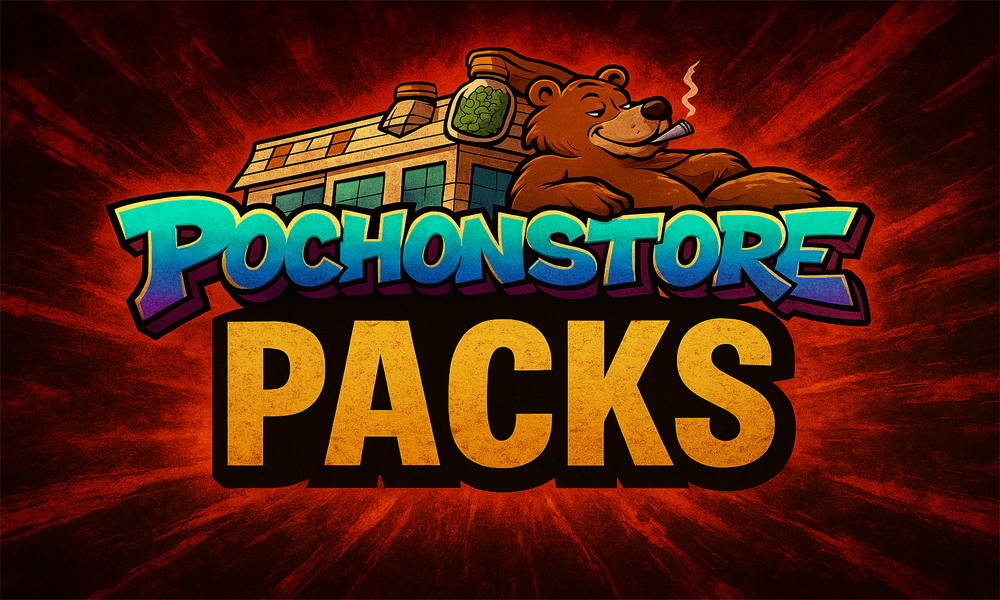
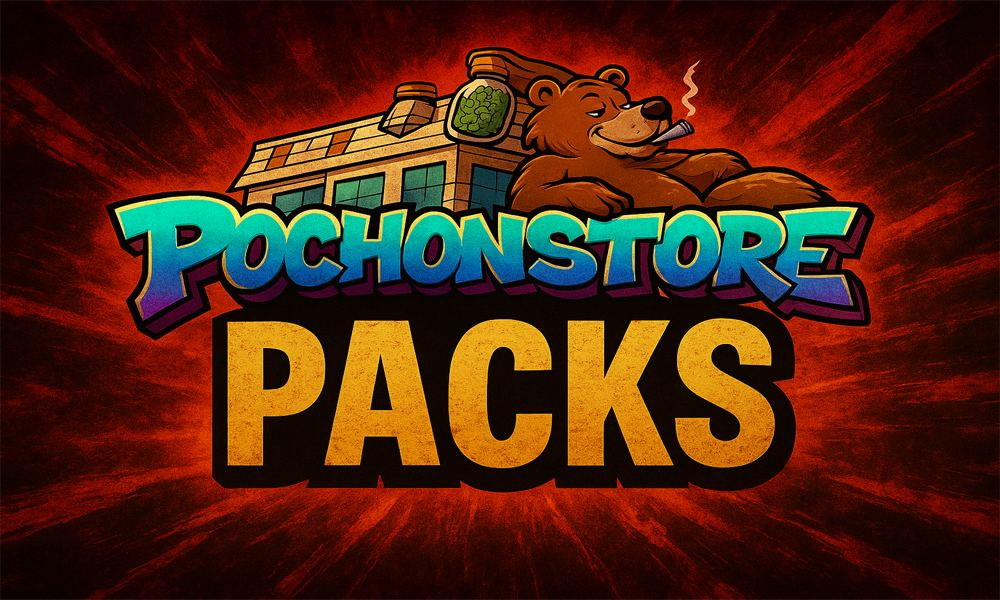
Compresse les medias, corrige la recherche, refond l'envoi de devis
Images (perf) :
- PNG photographiques convertis en JPEG optimise (bgpss, cartescata,
  pochons11, pochons22) : ~6 Mo -> ~1,7 Mo sur l'ensemble des images.
- Recompression des jpg existants (etiquettes1, pack-menu, scelleuse).
- Renommage fusees1.jpg (sans accent) pour la portabilite des URLs.
- banner.png reoptimise sans perte (transparence conservee).
- cartes.mp4 (5,8 Mo, pas d'outil de reencodage video disponible) :
  passe en preload="none" + chargement/lecture uniquement a l'ouverture
  de la fiche "Cartes fidelite", pause a la fermeture.

Recherche catalogue :
- Bug corrige : le filtre "Fusees" (data-tag="fusees" sans accent) ne
  matchait jamais le produit (data-tags="fusées" avec accent) et
  masquait le seul produit qu'il devait montrer.
- Recherche par mots-cles : tous les termes tapes doivent se retrouver
  (titre, sous-titre ou tags), plus permissif qu'une correspondance de
  sous-chaine complete.
- Message "Aucun resultat" quand la recherche/le filtre ne retourne rien.

Devis / contact :
- QUOTE_USERNAME bascule de pssv2 vers offpss (devis, contact, service
  dev mini-app).
- sendQuote() et openDevService() ouvraient un selecteur de contact
  Telegram generique (t.me/share/url) obligeant l'utilisateur a
  rechercher lui-meme le bon compte. Remplace par un lien direct
  t.me/offpss?text=... qui ouvre directement la conversation avec le
  message pre-rempli.
- Message de devis restructure en sections claires (identite client,
[…]

diff --git a/index.html b/index.html
@@ -117,7 +117,7 @@
       position: fixed;
       inset: 0;
       z-index: -2;
-      background: url("img/bgpss.png") center/cover no-repeat;
+      background: url("img/bgpss.jpg") center/cover no-repeat;
       opacity: 1;
     }
 
@@ -534,6 +534,32 @@
   border-color: rgba(255,215,100,0.9);
   color: #ffd766;
   box-shadow: 0 0 10px rgba(255,215,100,0.6);
+}
+
+/* état "aucun résultat" dans le catalogue */
+.search-empty-state{
+  display: none;
+  flex-direction: column;
+  align-items: center;
+  text-align: center;
+  gap: 4px;
+  padding: 36px 20px;
+  color: #d0d0d0;
+}
+
+.search-empty-icon{
+  font-size: 1.8rem;
+  margin-bottom: 6px;
+  opacity: 0.8;
+}
+
+.search-empty-state p{
+  margin: 0;
+}
+
+.search-empty-hint{
+  font-size: 0.82rem;
+  color: #8f8f8f;
 }
 
     /* ===========================
@@ -2650,7 +2676,7 @@ body[data-theme="night"] .product-card {
           data-tags="pochons,packaging,sachets,personnalisé,flatbag,doypack">
     <div class="product-badge">🔥 Populaire</div>
     <div class="product-badge">🧾 Sur devis</div>
-    <img src="img/pochons11.png" alt="Pochon personnalisé" />
+    <img src="img/pochons11.jpg" alt="Pochon personnalisé" />
     <div class="product-thumb-body">
       <div class="product-thumb-title">Pochon personnalisé</div>
       <div class="product-thumb-sub">Flatbags et doypacks imprimés avec ton visuel</div>
@@ -2684,7 +2710,7 @@ body[data-theme="night"] .product-card {
           data-product-id="p3"
           data-tags="cartes,visite,fidelite,flyer,impression">
     <div class="product-badge">⚡ Recommandé</div>
-    <img src="img/cartescata.png" alt="Cartes fidélité / visite" />
+    <img src="img/cartescata.jpg" alt="Cartes fidélité / visite" />
     <div class="product-thumb-body">
       <div class="product-thumb-title">Cartes fidélité / visite</div>
       <div class="product-thumb-sub">Recto verso, 8,5cm x 5,4cm</div>
@@ -2733,7 +2759,7 @@ body[data-theme="night"] .product-card {
           data-product-id="p6"
           data-tags="fusées,contenants,capsules,grammage">
     <div class="product-badge new">✨ Coup de cœur</div>
-    <img src="img/fusées1.jpg" alt="Fusées 1,5 ml" />
+    <img src="img/fusees1.jpg" alt="Fusées 1,5 ml" />
     <div class="product-thumb-body">
       <div class="product-thumb-title">Fusées 1,5 ml</div>
       <div class="product-thumb-sub">Capsules vides, tarifs selon quantité</div>
@@ -2781,13 +2807,20 @@ body[data-theme="night"] .product-card {
     </div>
   </button>
 </div>
-        
+
+  <!-- État vide : affiché en JS quand la recherche/le filtre ne retourne rien -->
+  <div id="searchEmptyState" class="search-empty-state">
+    <div class="search-empty-icon">🔍</div>
+    <p>Aucun résultat pour cette recherche.</p>
+    <p class="search-empty-hint">Essaie un autre mot-clé ou choisis « Tous » dans les filtres.</p>
+  </div>
+
       <!-- ===== FICHE PRODUIT P1 ===== -->
 <div id="productDetail_p1" class="product-detail hidden">
   <button class="btn-back" onclick="closeProduct()">← Retour</button>
 
   <div class="product-hero">
-    <img src="img/pochons22.png" alt="Pochon personnalisé" class="product-hero-img" />
+    <img src="img/pochons22.jpg" alt="Pochon personnalisé" class="product-hero-img" />
   </div>
 
   <div class="product-card">
@@ -2898,8 +2931,8 @@ body[data-theme="night"] .product-card {
   <button class="btn-back" onclick="closeProduct()">← Retour</button>
 
   <div class="product-hero">
-    <video src="img/cartes.mp4" class="product-hero-img" poster="img/cartescata.png"
-           autoplay muted loop playsinline></video>
+    <video id="p3Video" src="img/cartes.mp4" class="product-hero-img" poster="img/cartescata.jpg"
+           preload="none" muted loop playsinline></video>
   </div>
 
   <div class="product-card">
@@ -2988,7 +3021,7 @@ body[data-theme="night"] .product-card {
   <button class="btn-back" onclick="closeProduct()">← Retour</button>
 
   <div class="product-hero">
-    <img src="img/fusées1.jpg" alt="Fusées 1,5 ml" class="product-hero-img" />
+    <img src="img/fusees1.jpg" alt="Fusées 1,5 ml" class="product-hero-img" />
   </div>
 
   <div class="product-card">
@@ -3369,7 +3402,7 @@ body[data-theme="night"] .product-card {
     </div>
     <div class="profile-hero-text">
       <div id="profileDisplayName" class="profile-hero-name">PochonStore</div>
-      <div id="profileHandle" class="profile-hero-handle">@pssv2</div>
+      <div id="profileHandle" class="profile-hero-handle">@offpss</div>
     </div>
   </div>
 
@@ -3636,7 +3669,7 @@ if (tg) {
     console.error('Erreur expand', e);
   }
 }
-var QUOTE_USERNAME = "pssv2";
+var QUOTE_USERNAME = "offpss";
 
 // Panier + historique
 var CART = [];
@@ -3703,35 +3736,43 @@ function applyProductFilter(){
   var input = document.getElementById('productSearch');
   if (!input) return;
 
-  var term = normalizeText(input.value.trim());
+  // recherche par mots-clés : "pochon prix" doit matcher même si les mots
+  // ne sont pas côte à côte dans le titre
+  var tokens = normalizeText(input.value.trim()).split(/\s+/).filter(Boolean);
 
   var cards = document.querySelectorAll('#productGrid .product-thumb');
+  var visibleCount = 0;
+
   cards.forEach(function(card){
-    // texte (titre + sous-titre)
     var titleEl = card.querySelector('.product-thumb-title');
     var subEl   = card.querySelector('.product-thumb-sub');
+    var tagsAttr = card.getAttribute('data-tags') || "";
 
-    var text = normalizeText(
+    // texte + tags fusionnés et normalisés (accents retirés des deux côtés,
+    // sinon "fusees" ne retrouve jamais un tag écrit "fusées")
+    var haystack = normalizeText(
       (titleEl ? titleEl.textContent : "") + " " +
-      (subEl   ? subEl.textContent   : "")
+      (subEl   ? subEl.textContent   : "") + " " +
+      tagsAttr
     );
 
-    // tags
-    var tagsAttr = (card.getAttribute('data-tags') || "").toLowerCase();
-    var tagList  = tagsAttr.split(',').map(function(t){ return t.trim(); }).filter(Boolean);
+    var tagList = normalizeText(tagsAttr).split(',').map(function(t){ return t.trim(); }).filter(Boolean);
 
-    var matchesTerm =
-      !term ||
-      text.indexOf(term) !== -1 ||
-      tagsAttr.indexOf(term) !== -1;
+    var matchesTerm = tokens.every(function(tok){ return haystack.indexOf(tok) !== -1; });
 
     var matchesTag =
       currentTagFilter === 'all' ||
       tagList.indexOf(currentTagFilter) !== -1;
 
-    // afficher / cacher
-    card.style.display = (matchesTerm && matchesTag) ? '' : 'none';
+    var visible = matchesTerm && matchesTag;
+    card.style.display = visible ? '' : 'none';
+    if (visible) visibleCount++;
   });
+
+  var emptyState = document.getElementById('searchEmptyState');
+  if (emptyState){
+    emptyState.style.display = visibleCount === 0 ? 'flex' : 'none';
+  }
 }
 
 function initProductSearch(){
@@ -3760,7 +3801,7 @@ function initProductSearch(){
         c.classList.remove('active');
       });
       this.classList.add('active');
-      currentTagFilter = this.getAttribute('data-tag') || 'all';
+      currentTagFilter = normalizeText(this.getAttribute('data-tag') || 'all');
       applyProductFilter();
     });
   });
@@ -3773,12 +3814,29 @@ function initProductSearch(){
       var grid = document.getElementById('productGrid');
       if (grid) grid.style.display = 'none';
 
+      var emptyState = document.getElementById('searchEmptyState');
+      if (emptyState) emptyState.style.display = 'none';
+
       document.querySelectorAll('[id^="productDetail_"]').forEach(function(e){
         e.classList.add('hidden');
       });
 
       var el = document.getElementById('productDetail_' + id);
       if (el) el.classList.remove('hidden');
+
+      // La vidéo de la fiche "Cartes" (5+ Mo) ne se charge/joue que si on ouvre vraiment cette fiche.
+      if (id === 'p3'){
+        var video = document.getElementById('p3Video');
+        if (video){
+          try{
+            if (video.getAttribute('preload') === 'none'){
+              video.setAttribute('preload', 'auto');
+              video.load();
+            }
+            video.play().catch(function(){ /* autoplay bloqué : l'utilisateur pourra taper play */ });
+          }catch(e){ console.error('lecture vidéo p3 impossible', e); }
+        }
+      }
 
       window.scrollTo(0,0);
     }
@@ -3789,6 +3847,13 @@ function initProductSearch(){
       });
       var grid = document.getElementById('productGrid');
       if (grid) grid.style.display = 'grid';
+
+      // On coupe la vidéo quand on quitte la fiche, pour ne pas la laisser tourner en arrière-plan.
+      var video = document.getElementById('p3Video');
+      if (video){
+        try{ video.pause(); }catch(e){}
+      }
+
       if (!fromTabSwitch) window.scrollTo(0,0);
     }
 
@@ -4916,13 +4981,25 @@ updateCartFabVisibility();
   }
 
   try{
+    var DIVIDER = "━━━━━━━━━━━━━━━━━━━━";
     var lines = [];
-    lines.push("🧾 Demande de devis – PochonStore");
-    lines.push("");
-    lines.push("Détail du panier :");
-    lines.push("");
+
+    lines.push("🧾 NOUVELLE DEMANDE DE DEVIS — PochonStore");
+    lines.push(DIVIDER);
+
+    // === Identité du client (si dispo via Telegram) ===
+    var tgUser = (tg && tg.initDataUnsafe && tg.initDataUnsafe.user) ? tg.initDataUnsafe.user : null;
+    if (tgUser){
+      var clientName = ((tgUser.first_name || "") + " " + (tgUser.last_name || "")).trim() || "Client Telegram";
+      lines.push("👤 Client : " + clientName + (tgUser.username ? " (@" + tgUser.username + ")" : ""));
+      if (tgUser.id) lines.push("🆔 ID Telegram : " + tgUser.id);
+      lines.push("");
+    }
 
     var total = 0;
+
+    lines.push("🛒 ARTICLES (" + CART.length + ")");
+    lines.push("");
 
     for (var i = 0; i < CART.length; i++){
       var it = CART[i];
@@ -4945,14 +5022,14 @@ updateCartFabVisibility();
           parts.push(label + " : " + value);
         }
         if (parts.length){
-          lines.push("   • " + parts.join("\n   • "));
+          lines.push("    • " + parts.join("\n    • "));
         }
       }
 
       if (it.unit){
         var sousTotal = (it.unit || 0) * it.qty;
         total += sousTotal;
-        lines.push("   Sous-total estimé : " + euro(sousTotal));
+        lines.push("    Sous-total : " + euro(sousTotal));
       }
 
       lines.push("");
@@ -4961,8 +5038,8 @@ updateCartFabVisibility();
     // === PARTIE FRAIS / MOYEN DE PAIEMENT ===
     var fees = computePaymentFees(total, selectedPaymentMethod);
     var grandTotal = total + fees;
-    
-        // === Sauvegarde dans l’historique local ===
+
+    // === Sauvegarde dans l’historique local ===
     var snapshot = {
       date: new Date().toISOString(),
       items: CART.map(function(it){
@@ -4982,37 +5059,25 @@ updateCartFabVisibility();
     ORDER_HISTORY.push(snapshot);
     saveHistoryToStorage();
 
-    var paymentLabel;
-    switch(selectedPaymentMethod){
-      case 'paypal':  paymentLabel = "PayPal"; break;
-      case 'cash':    paymentLabel = "Main propre"; break;
-      case 'crypto':  paymentLabel = "Crypto"; break;
-      case 'tickets': paymentLabel = "Ticket tabac"; break;
-      default:        paymentLabel = "Non précisé"; break;
-    }
+    var paymentLabel = getPaymentLabel(selectedPaymentMethod);
 
-    lines.push("Mode de paiement souhaité : " + paymentLabel);
-    lines.push("Frais d’envoi automatiques : 0,00 €");
-
+    lines.push(DIVIDER);
+    lines.push("💳 Paiement : " + paymentLabel);
+    lines.push("💰 Sous-total produits : " + euro(total));
     if (fees > 0){
-      lines.push("Frais de paiement : " + euro(fees));
-    } else {
-      lines.push("Frais de paiement : 0,00 €");
+      lines.push("➕ Frais de paiement (" + paymentLabel + ") : " + euro(fees));
     }
-
-    lines.push("Total à payer estimé : " + euro(grandTotal));
+    lines.push("📦 Frais d’envoi : 0,00 € (non inclus automatiquement)");
+    lines.push("✅ TOTAL À PAYER ESTIMÉ : " + euro(grandTotal));
+    lines.push(DIVIDER);
     lines.push("");
-
-    // rappel du total produits seul
-    lines.push("Total estimé (produits seuls, min connu) : " + euro(total));
-    lines.push("");
-    lines.push("Merci de vérifier les informations puis d’envoyer ce message à PochonStore pour finaliser le devis.");
+    lines.push("Merci de confirmer ce devis pour lancer la commande 🙏");
 
     var message = lines.join("\n");
 
-    var url = "https://t.me/share/url"
-      + "?url="  + encodeURIComponent("https://t.me/" + QUOTE_USERNAME)
-      + "&text=" + encodeURIComponent(message);
+    // Ouvre DIRECTEMENT la conversation avec le message pré-rempli,
+    // au lieu du sélecteur de contact générique de Telegram.
+    var url = "https://t.me/" + QUOTE_USERNAME + "?text=" + encodeURIComponent(message);
 
     if (tg && tg.openTelegramLink){
       tg.openTelegramLink(url);
@@ -5021,7 +5086,7 @@ updateCartFabVisibility();
     }
 
     closeCart(true);
-    toast("Ouverture du chat avec PochonStore…");
+    toast("Ouverture de la conversation avec @" + QUOTE_USERNAME + "…");
         // Mettre à jour le rendu de l’historique dans l’onglet Profil
     renderHistory();
   }catch(e){
@@ -5094,8 +5159,6 @@ updateCartFabVisibility();
     }
     
     function openDevService(){
-  var baseUrl = "https://t.me/" + QUOTE_USERNAME;
-
   var intro =
     "👋 Salut, je viens de ta boutique PochonStore.\n" +
     "Je suis intéressé(e) par le développement d’une mini-app / WebApp sur mesure.\n\n" +
@@ -5105,9 +5168,8 @@ updateCartFabVisibility();
     "- Fonctionnalités souhaitées (catalogue, panier, devis, etc.) : \n" +
     "- Budget approximatif : \n";
 
-  var url = "https://t.me/share/url"
-    + "?url="  + encodeURIComponent(baseUrl)
-    + "&text=" + encodeURIComponent(intro);
+  // Lien direct vers la conversation, message pré-rempli (pas de sélecteur de contact générique).
+  var url = "https://t.me/" + QUOTE_USERNAME + "?text=" + encodeURIComponent(intro);
 
   if (tg && tg.openTelegramLink){
     tg.openTelegramLink(url);
